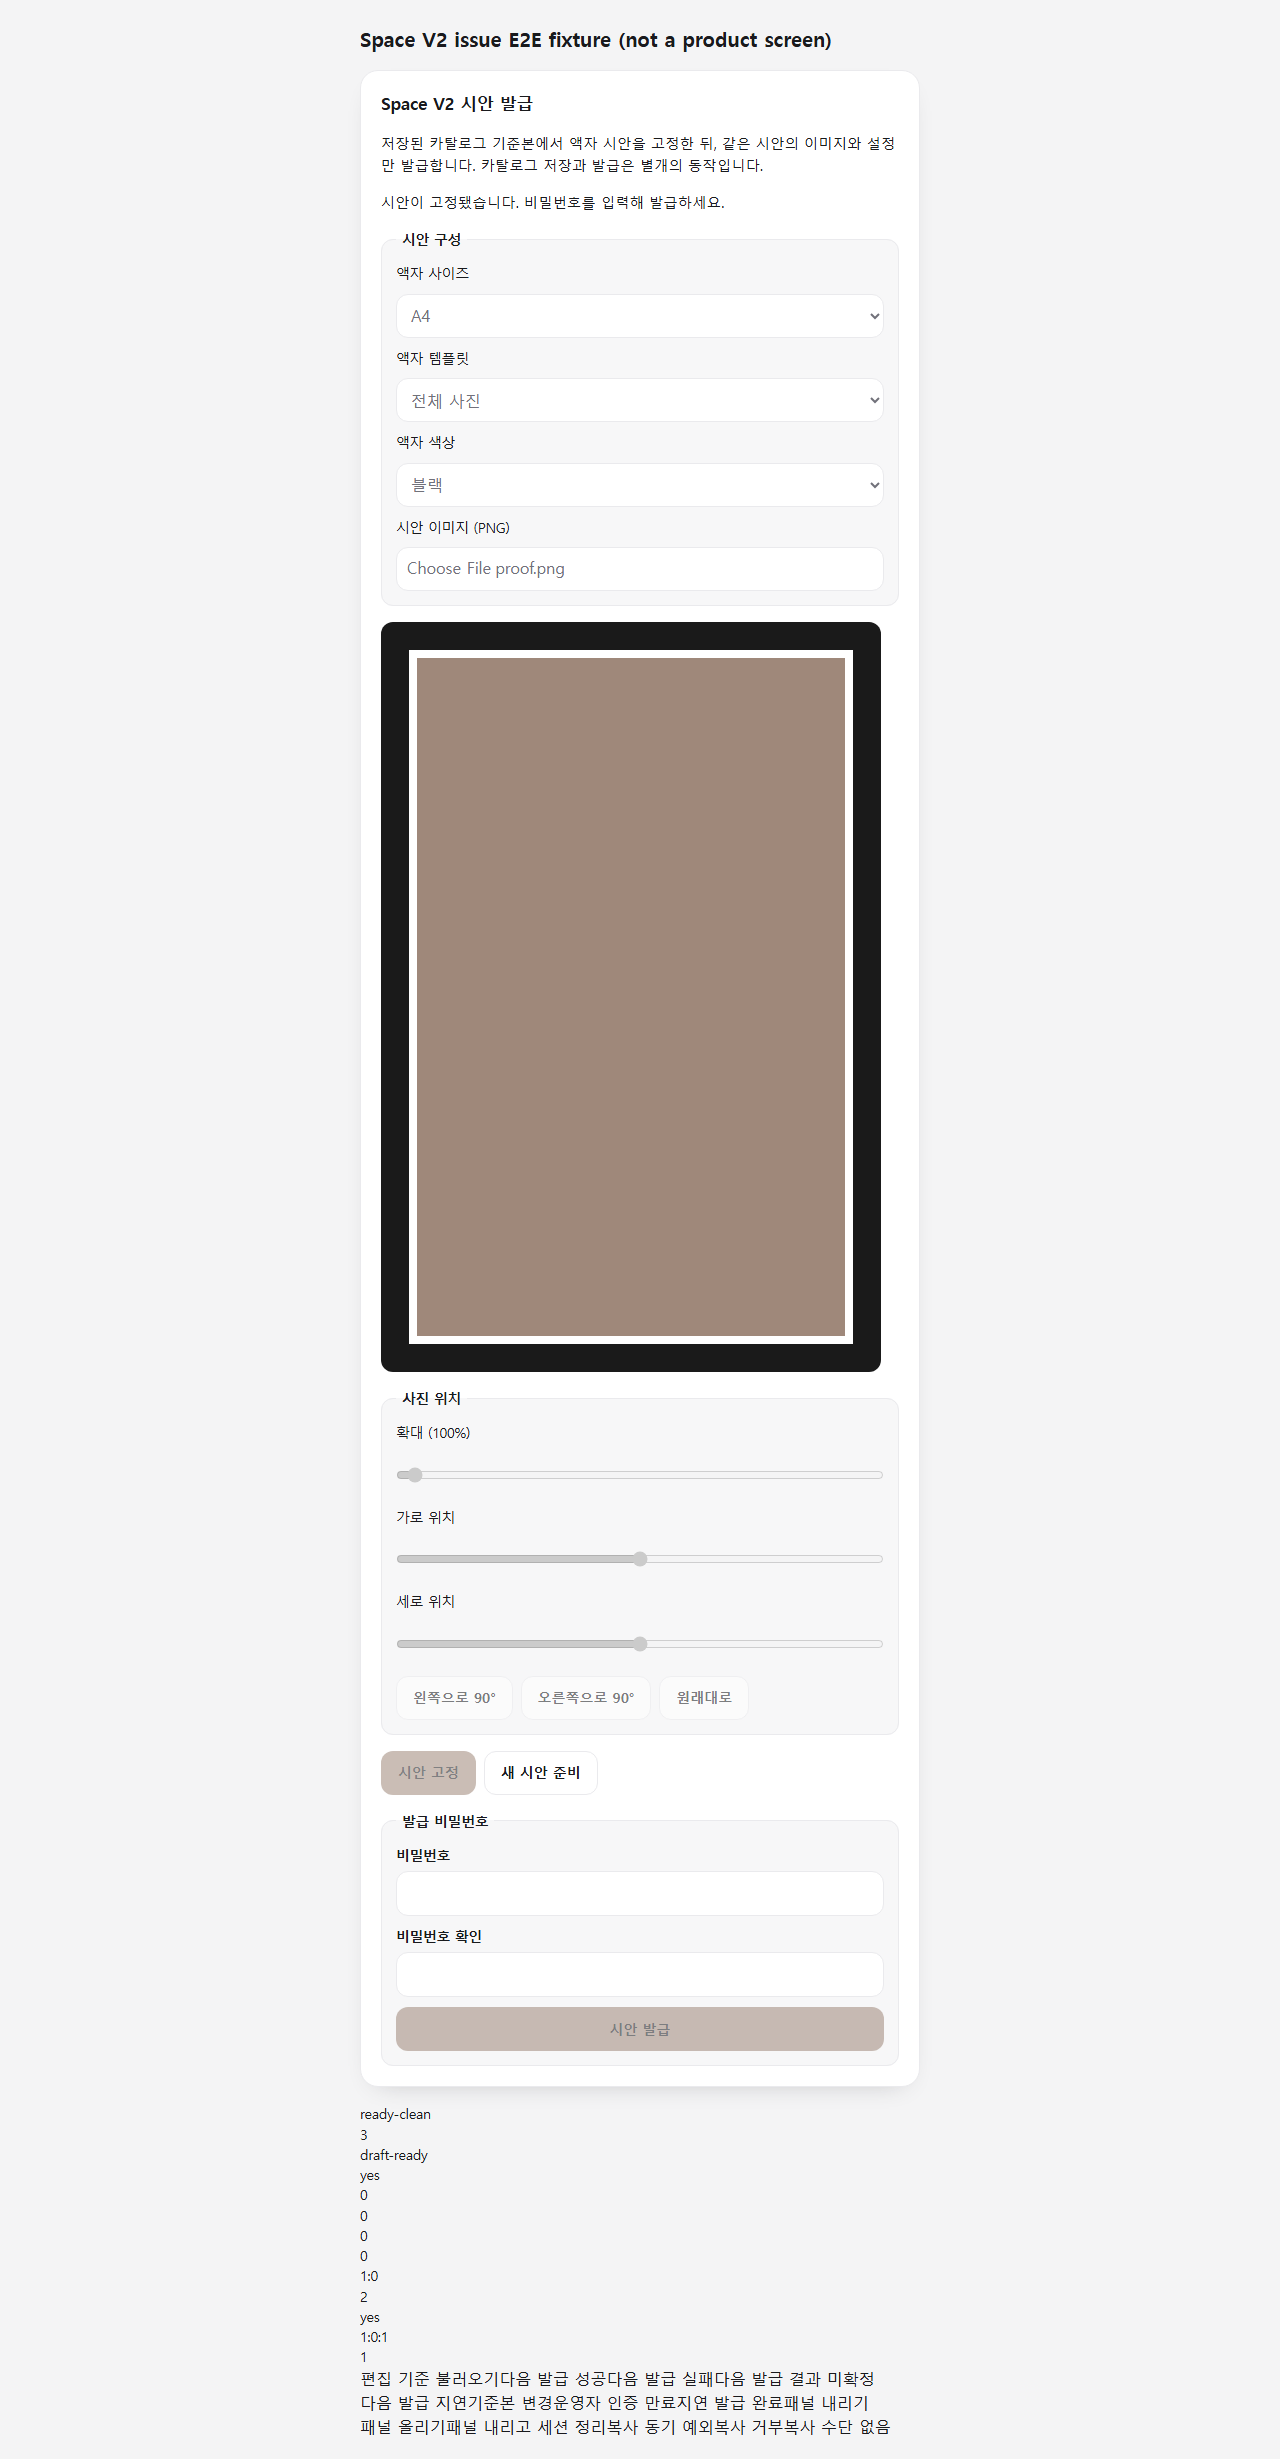
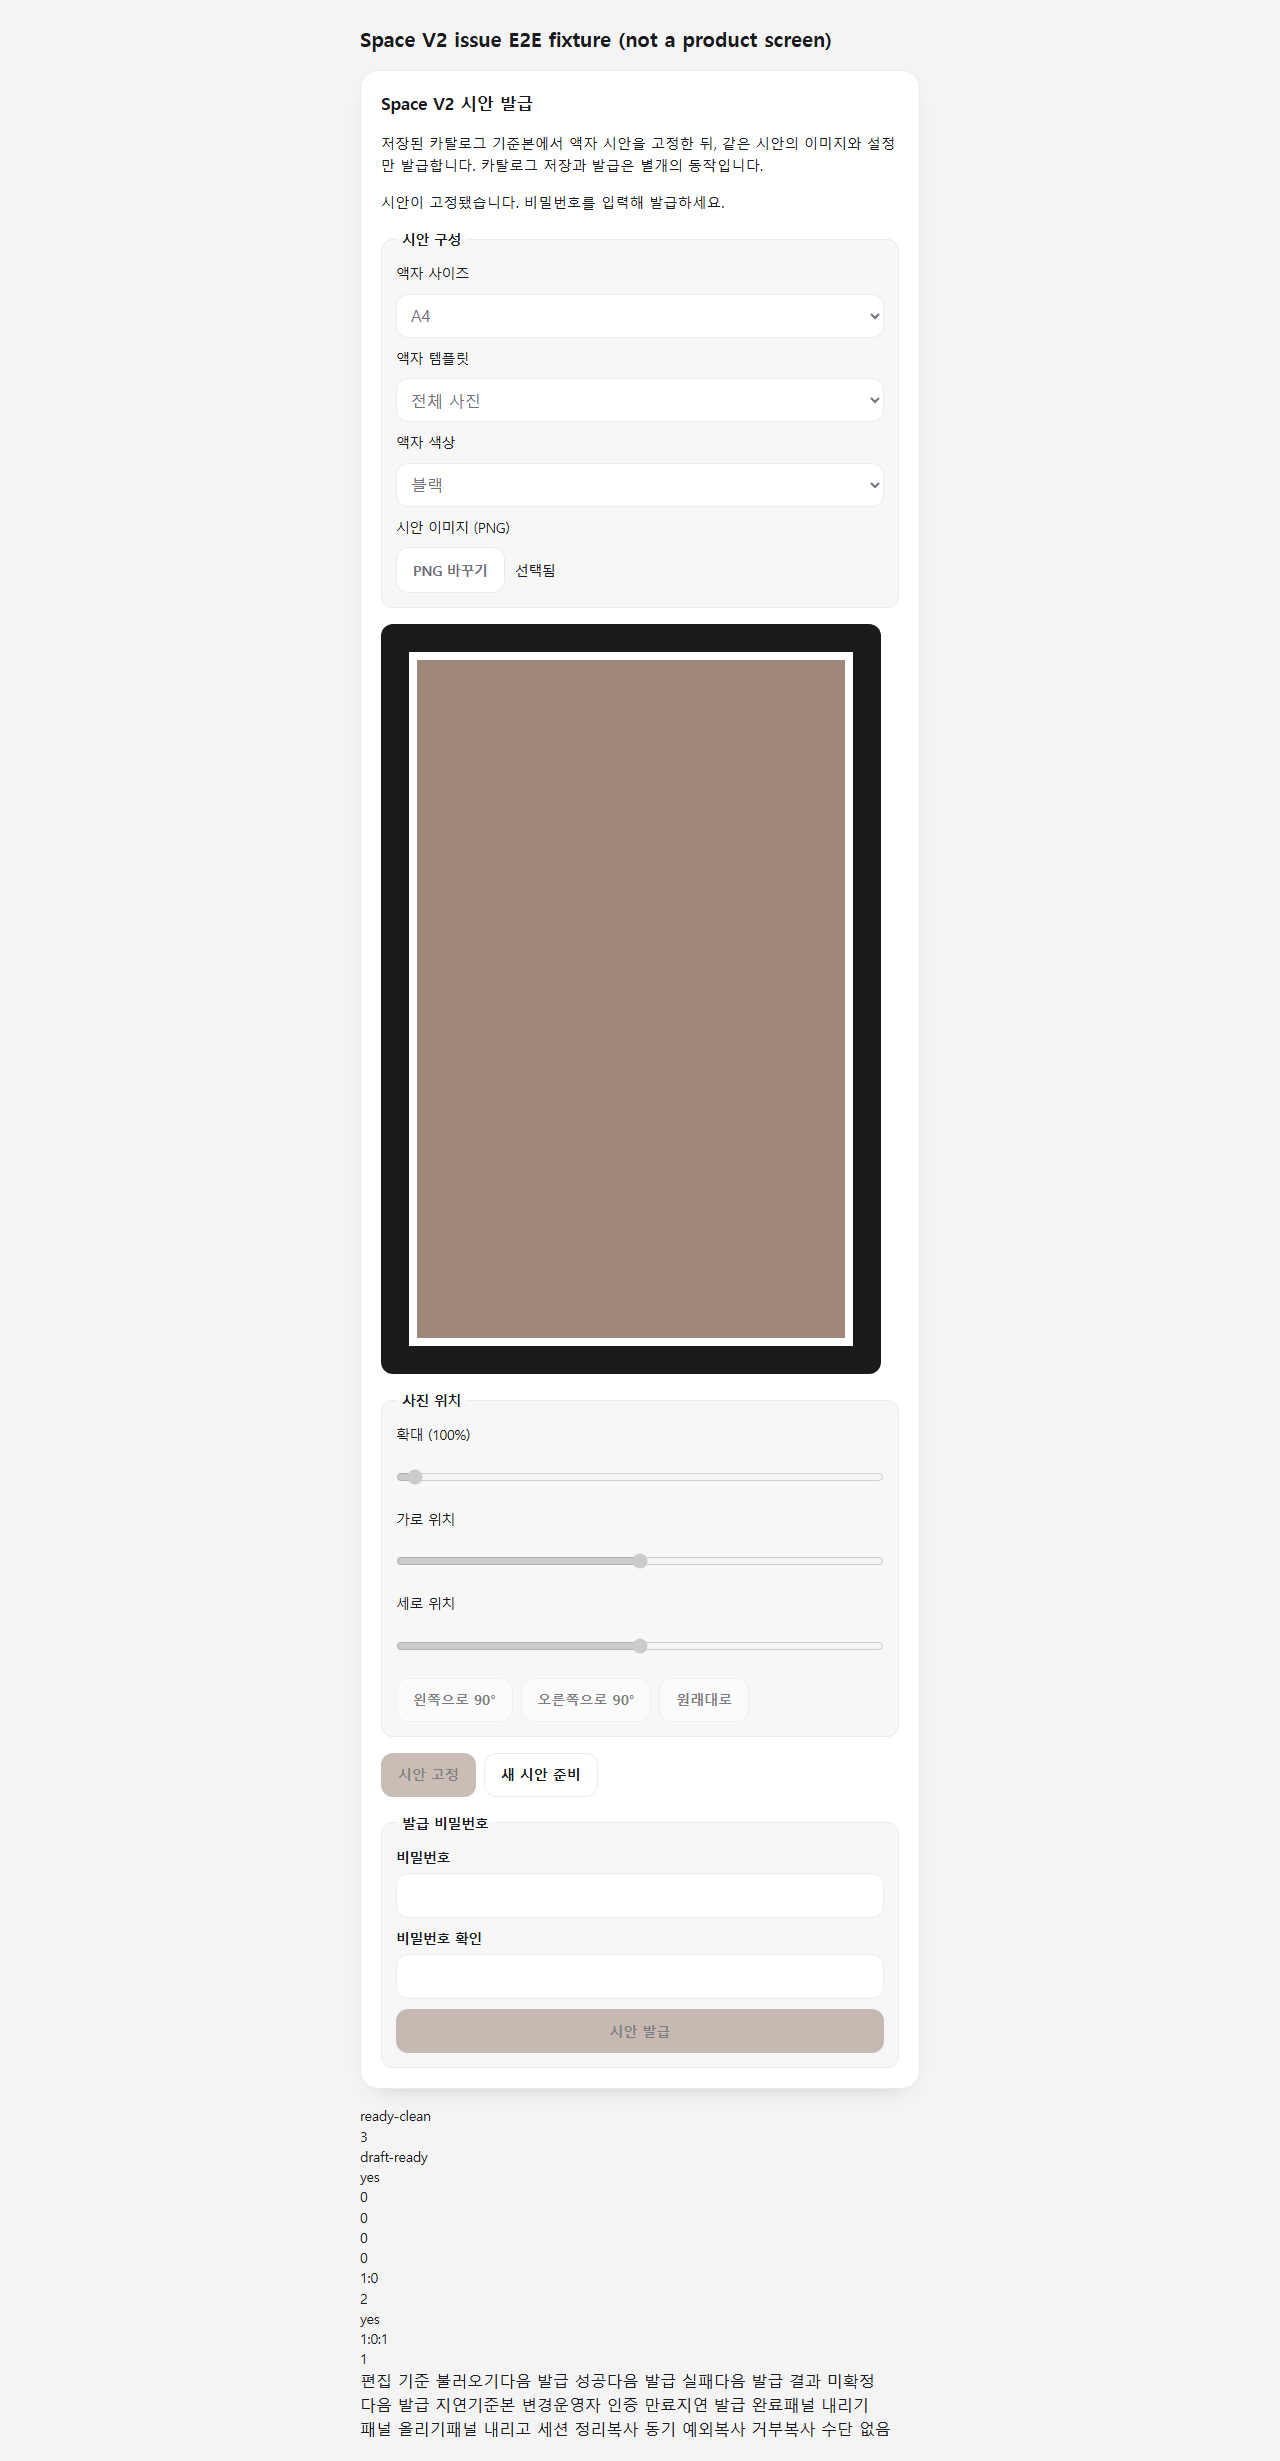
spec 089: refine operator PNG picker and preserve frozen input boundary

diff --git a/tests/e2e/admin-space-v2-issue.spec.ts b/tests/e2e/admin-space-v2-issue.spec.ts
@@ -159,6 +159,12 @@ test("a file the browser cannot decode as a PNG fails closed", async ({ page }) 
   await expect(page.getByTestId("fixture-issue-calls")).toHaveText("0");
   // The picked file's name never reaches the DOM.
   expect(await page.content()).not.toContain("renamed.png");
+  await expect(page.getByTestId("space-v2-proof-file")).toHaveAccessibleDescription("선택 실패");
+  await expect(page.getByTestId("space-v2-proof-file")).toBeEnabled();
+  await attach(page, PNG, "replacement.png");
+  await expect(page.getByTestId("space-v2-proof-file")).toHaveAccessibleDescription("선택됨");
+  await expect(canvasBox(page)).toBeVisible();
+  await expect(page.getByTestId("fixture-issue-calls")).toHaveText("0");
 });
 
 test("a mismatched password issues nothing and needs a new draft", async ({ page }) => {
@@ -593,6 +599,93 @@ const VIEWPORTS = [
 ] as const;
 
 for (const viewport of VIEWPORTS) {
+  test(`spec 089 PNG picker keyboard and frozen boundary at ${viewport.name}`, async ({ page }) => {
+    await page.setViewportSize({ width: viewport.width, height: viewport.height });
+    const { external, consoleMessages } = await open(page);
+    const input = page.getByTestId("space-v2-proof-file");
+    const picker = page.locator(".denn-space-v2-issue__file-picker");
+    await expect(input).toBeDisabled();
+    await expect(picker).toHaveCSS("cursor", "not-allowed");
+    await expect(input).toHaveAccessibleName("시안 이미지 (PNG)");
+    await expect(input).toHaveAccessibleDescription("선택 안 됨");
+    await loadBaseline(page);
+    await chooseSupported(page);
+    await expect(input).toBeEnabled();
+    await expect(picker).toHaveText("PNG 선택");
+
+    await input.focus();
+    await page.keyboard.press("Tab");
+    await page.keyboard.press("Shift+Tab");
+    await expect(input).toBeFocused();
+    await expect(picker).toHaveCSS("outline-style", "solid");
+    await expect(input).toHaveCSS("opacity", "0");
+    const box = await input.boundingBox();
+    expect(box?.height ?? 0).toBeGreaterThanOrEqual(44);
+    expect(box?.width ?? 0).toBeGreaterThanOrEqual(44);
+
+    const firstChooser = page.waitForEvent("filechooser");
+    await input.press("Enter");
+    await (await firstChooser).setFiles({
+      name: "private-first.png",
+      mimeType: "image/png",
+      buffer: PNG,
+    });
+    await expect(input).toHaveAccessibleDescription("선택됨");
+    await expect(picker).toHaveText("PNG 바꾸기");
+    await expect(canvasBox(page)).toBeVisible();
+    await expect(page.getByTestId("fixture-object-urls")).toHaveText("1:0");
+
+    // OS dialog pixels are outside this test. Model its no-file change and cancel notification.
+    await input.setInputFiles([]);
+    await input.dispatchEvent("cancel");
+    await expect(input).toHaveAccessibleDescription("선택됨");
+    await expect(canvasBox(page)).toBeVisible();
+    await expect(page.getByTestId("fixture-object-urls")).toHaveText("1:0");
+    const secondChooser = page.waitForEvent("filechooser");
+    await input.press("Space");
+    await (await secondChooser).setFiles({
+      name: "private-second.png",
+      mimeType: "image/png",
+      buffer: PNG,
+    });
+    await expect(page.getByTestId("fixture-object-urls")).toHaveText("2:1");
+    await expect(input).toHaveAccessibleDescription("선택됨");
+    // Unlike the customer picker, this handler intentionally retains the native input value.
+    await expect(input).toHaveValue(/private-second\.png$/);
+    expect(await page.locator("body").innerText()).not.toContain("private-");
+    expect(await page.content()).not.toContain("private-");
+    expect(await page.evaluate(() => document.documentElement.scrollWidth <= innerWidth)).toBe(
+      true,
+    );
+    const axe = await new AxeBuilder({ page }).analyze();
+    expect(axe.violations.filter((v) => v.impact === "serious" || v.impact === "critical")).toEqual(
+      [],
+    );
+    await page.evaluate(() => document.fonts.ready.then(() => undefined));
+    const { mkdirSync } = await import("node:fs");
+    mkdirSync("docs/rebuild/results/spec-089", { recursive: true });
+    // Include the fieldset padding so the outer keyboard outline is not cropped off.
+    await page
+      .locator(".denn-space-v2-issue__group")
+      .first()
+      .screenshot({
+        path: `docs/rebuild/results/spec-089/png-picker-${viewport.width}x${viewport.height}.png`,
+        animations: "disabled",
+      });
+
+    await page.getByTestId("space-v2-freeze").click();
+    await expect(page.getByTestId("fixture-issue-status")).toHaveText("draft-ready");
+    await expect(input).toBeDisabled();
+    await expect(picker).toHaveCSS("cursor", "not-allowed");
+    await input.focus();
+    await expect(input).not.toBeFocused();
+    await expect(canvasBox(page)).toBeVisible();
+    await expect(page.getByTestId("fixture-issue-calls")).toHaveText("0");
+    await expect(page.getByTestId("fixture-write-factory-calls")).toHaveText("0");
+    expect(external).toEqual([]);
+    expect(consoleMessages).toEqual([]);
+  });
+
   test(`layout, targets and axe at ${viewport.name}`, async ({ page }) => {
     const { consoleMessages } = await open(page);
     await page.setViewportSize({ width: viewport.width, height: viewport.height });

diff --git a/apps/admin/src/space-v2/AdminSpaceV2IssuePanel.tsx b/apps/admin/src/space-v2/AdminSpaceV2IssuePanel.tsx
@@ -624,17 +624,41 @@ export function AdminSpaceV2IssuePanel({
             ))}
           </select>
 
-          <label htmlFor="space-v2-proof-file">시안 이미지 (PNG)</label>
-          <input
-            id="space-v2-proof-file"
-            data-testid="space-v2-proof-file"
-            type="file"
-            accept="image/png"
-            onChange={(event) => {
-              const file = event.target.files?.[0];
-              if (file !== undefined) owner.load(file);
-            }}
-          />
+          <div className="denn-space-v2-issue__file" data-photo-state={image.status}>
+            <label id="space-v2-proof-file-label" htmlFor="space-v2-proof-file">
+              시안 이미지 (PNG)
+            </label>
+            <div className="denn-space-v2-issue__file-row">
+              <label className="denn-space-v2-issue__file-picker" htmlFor="space-v2-proof-file">
+                <span aria-hidden="true">
+                  {image.status === "ready" ? "PNG 바꾸기" : "PNG 선택"}
+                </span>
+                <input
+                  className="denn-space-v2-issue__file-input"
+                  id="space-v2-proof-file"
+                  data-testid="space-v2-proof-file"
+                  type="file"
+                  accept="image/png"
+                  aria-labelledby="space-v2-proof-file-label"
+                  aria-describedby="space-v2-proof-file-state"
+                  onChange={(event) => {
+                    const file = event.target.files?.[0];
+                    if (file !== undefined) owner.load(file);
+                  }}
+                />
+              </label>
+              <span id="space-v2-proof-file-state" className="denn-space-v2-issue__file-state">
+                {
+                  {
+                    idle: "선택 안 됨",
+                    loading: "준비 중",
+                    ready: "선택됨",
+                    failed: "선택 실패",
+                  }[image.status]
+                }
+              </span>
+            </div>
+          </div>
         </fieldset>
 
         <div className="denn-space-v2-issue__preview" ref={boxRef}>

diff --git a/apps/admin/src/space-v2/admin-space-v2-issue.css b/apps/admin/src/space-v2/admin-space-v2-issue.css
@@ -59,7 +59,6 @@
 
 /* 44px minimum target on every interactive control (spec 083 VERIFY E2E 8). */
 .denn-space-v2-issue__group > select,
-.denn-space-v2-issue__group > input[type="file"],
 .denn-space-v2-issue__group > input[type="range"] {
   box-sizing: border-box;
   min-height: 44px;
@@ -89,6 +88,73 @@
   display: flex;
   flex-wrap: wrap;
   gap: 8px;
+}
+
+.denn-space-v2-issue__file {
+  display: flex;
+  flex-direction: column;
+  gap: 10px;
+  min-width: 0;
+  color: var(--ink);
+  font-size: 0.85rem;
+}
+
+.denn-space-v2-issue__file > label {
+  font-weight: 500;
+  overflow-wrap: anywhere;
+}
+
+.denn-space-v2-issue__file-row {
+  display: flex;
+  align-items: center;
+  flex-wrap: wrap;
+  gap: 10px;
+}
+
+.denn-space-v2-issue__file-picker {
+  position: relative;
+  display: inline-flex;
+  align-items: center;
+  justify-content: center;
+  box-sizing: border-box;
+  /* The overlay input inside the border retains a full 44px pointer target. */
+  min-height: 46px;
+  padding: 10px 16px;
+  border: 1px solid var(--accent);
+  border-radius: var(--radius);
+  background: var(--accent-soft);
+  color: var(--ink);
+  font: inherit;
+  font-weight: 600;
+}
+
+.denn-space-v2-issue__file-input {
+  position: absolute;
+  inset: 0;
+  width: 100%;
+  height: 100%;
+  opacity: 0;
+  cursor: pointer;
+}
+
+.denn-space-v2-issue__file-picker:has(input:focus-visible) {
+  outline: 2px solid var(--ink);
+  outline-offset: 3px;
+}
+
+.denn-space-v2-issue__file-picker:has(input:disabled) {
+  border-color: var(--line);
+  background: var(--surface);
+  color: var(--muted);
+  cursor: not-allowed;
+}
+
+.denn-space-v2-issue__file-input:disabled {
+  cursor: not-allowed;
+}
+
+.denn-space-v2-issue__file[data-photo-state="failed"] .denn-space-v2-issue__file-state {
+  color: var(--danger-ink);
 }
 
 /* The preview box is what the logical width is MEASURED from, so it must be a plain block that

diff --git a/apps/admin/src/space-v2/AdminSpaceV2IssuePanel.test.tsx b/apps/admin/src/space-v2/AdminSpaceV2IssuePanel.test.tsx
@@ -323,6 +323,19 @@ describe("copyLinkToClipboard", () => {
 // --- the rendered states (spec 083 §6) ---------------------------------------
 
 describe("AdminSpaceV2IssuePanel", () => {
+  it("keeps a native PNG input with Korean label and explicit local state", () => {
+    const html = render();
+    expect(html).toContain('id="space-v2-proof-file-label"');
+    expect(html).toContain('aria-labelledby="space-v2-proof-file-label"');
+    expect(html).toContain('aria-describedby="space-v2-proof-file-state"');
+    expect(html).toContain('type="file" accept="image/png"');
+    expect(html).toContain('id="space-v2-proof-file-state"');
+    expect(html).toContain("시안 이미지 (PNG)");
+    expect(html).toContain("PNG 선택");
+    expect(html).toContain("선택 안 됨");
+    expect(html.match(/type="file"/g)).toHaveLength(1);
+  });
+
   it("explains why a draft cannot start when the baseline is not ready-clean", () => {
     for (const status of ["unloaded", "ready-dirty-valid", "saving", "conflict"] as const) {
       const html = render(writeController({ ...WRITE_SNAPSHOT, status }));
